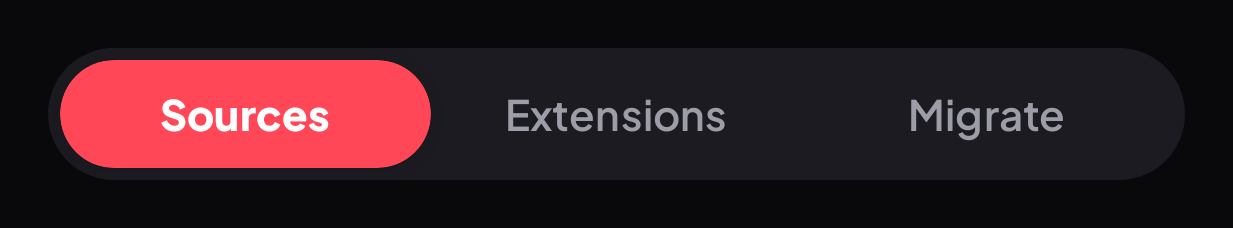
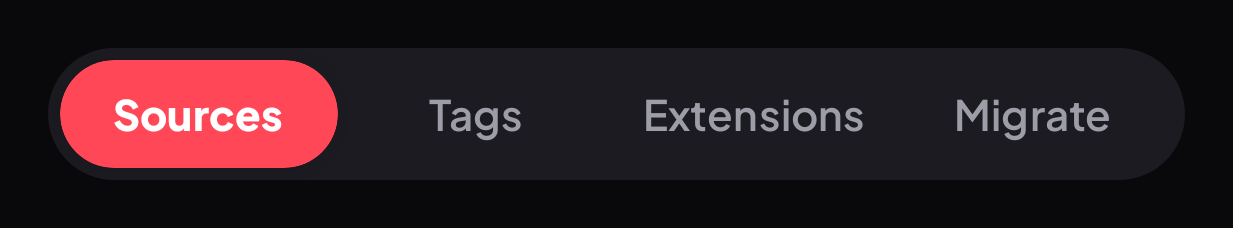
README gallery: universal search, Tags tab and reader chrome screenshots

Changed region(s): [[0.0925, 0.2456, 0.7088, 0.7368], [0.7397, 0.4298, 0.9246, 0.614]]

diff --git a/app/src/test/java/kurotoon/screenshots/KuroScreenshots.kt b/app/src/test/java/kurotoon/screenshots/KuroScreenshots.kt
@@ -782,9 +782,9 @@ class KuroScreenshots {
 
     @Test
     fun segmentedTabs() = shot("segmented_tabs") {
-        val pager = androidx.compose.foundation.pager.rememberPagerState { 3 }
+        val pager = androidx.compose.foundation.pager.rememberPagerState { 4 }
         kurotoon.ui.KuroSegmentedTabs(
-            titles = listOf("Sources", "Extensions", "Migrate"),
+            titles = listOf("Sources", "Tags", "Extensions", "Migrate"),
             pagerState = pager,
             onSelect = {},
             modifier = Modifier.padding(vertical = 10.dp),
@@ -827,6 +827,46 @@ class KuroScreenshots {
                 ),
             )
         }
+    }
+
+    @Test
+    fun unifiedSearch() = shot("unified_search", fullScreen = true) {
+        fun manga(id: Long, title: String, source: Long) = Manga.create().copy(
+            id = id,
+            title = title,
+            source = source,
+            url = "/$source/$id",
+            thumbnailUrl = "https://example.org/$id.jpg",
+        )
+        val asura: eu.kanade.tachiyomi.source.Source = tachiyomi.domain.source.model.StubSource(1L, "en", "Asura")
+        val flame: eu.kanade.tachiyomi.source.Source = tachiyomi.domain.source.model.StubSource(2L, "en", "Flame")
+        val reaper: eu.kanade.tachiyomi.source.Source = tachiyomi.domain.source.model.StubSource(3L, "en", "Reaper")
+        val slow: eu.kanade.tachiyomi.source.Source = tachiyomi.domain.source.model.StubSource(4L, "en", "Night Scans")
+        val ok: (List<Manga>) -> eu.kanade.tachiyomi.ui.browse.source.globalsearch.SearchItemResult =
+            eu.kanade.tachiyomi.ui.browse.source.globalsearch.SearchItemResult::Success
+        val loading: eu.kanade.tachiyomi.ui.browse.source.globalsearch.SearchItemResult =
+            eu.kanade.tachiyomi.ui.browse.source.globalsearch.SearchItemResult.Loading
+        val items = mapOf(
+            asura to ok(
+                listOf(
+                    manga(1, "Solo Leveling", 1),
+                    manga(2, "Solo Leveling: Ragnarok", 1),
+                    manga(3, "Solo Max-Level Newbie", 1),
+                ),
+            ),
+            flame to ok(listOf(manga(11, "Solo Leveling", 2), manga(12, "Solo Bug Player", 2))),
+            reaper to ok(listOf(manga(21, "Solo Leveling", 3), manga(22, "Solo Leveling: Ragnarok", 3))),
+            slow to loading,
+        )
+        kurotoon.ui.browse.UnifiedSearchResults(
+            items = items,
+            query = "solo leveling",
+            library = emptyList(),
+            contentPadding = androidx.compose.foundation.layout.PaddingValues(0.dp),
+            getManga = { androidx.compose.runtime.remember(it) { androidx.compose.runtime.mutableStateOf(it) } },
+            onClickItem = {},
+            onShowBySource = {},
+        )
     }
 
     @Test

diff --git a/app/src/main/java/mihon/feature/migration/list/MigrationListScreenContent.kt b/app/src/main/java/mihon/feature/migration/list/MigrationListScreenContent.kt
@@ -17,7 +17,6 @@ import androidx.compose.foundation.layout.padding
 import androidx.compose.foundation.layout.widthIn
 import androidx.compose.foundation.lazy.items
 import androidx.compose.foundation.shape.RoundedCornerShape
-import eu.kanade.presentation.components.DropdownMenu
 import androidx.compose.material3.DropdownMenuItem
 import androidx.compose.material3.Icon
 import androidx.compose.material3.IconButton
@@ -41,6 +40,7 @@ import androidx.compose.ui.unit.DpOffset
 import androidx.compose.ui.unit.dp
 import eu.kanade.presentation.components.AppBar
 import eu.kanade.presentation.components.AppBarActions
+import eu.kanade.presentation.components.DropdownMenu
 import eu.kanade.presentation.manga.components.MangaCover
 import eu.kanade.presentation.util.formatChapterNumber
 import eu.kanade.presentation.util.rememberResourceBitmapPainter

diff --git a/README.md b/README.md
@@ -111,7 +111,15 @@ one, tap Use.
 </tr>
 </table>
 
-<p align="center"><img src="docs/images/segmented_tabs.png" alt="Segmented tabs: Sources, Extensions, Migrate" width="70%"></p>
+<table>
+<tr>
+<td width="33%" valign="top"><img src="docs/images/unified_search.png" alt="Universal search showing one merged grid with x3 and x2 source badges"><br><sub><b>Universal search</b> · one merged grid, each series once</sub></td>
+<td width="33%" valign="top"><img src="docs/images/browse_tags.png" alt="Browse Tags tab with a search field and tag counts from every source"><br><sub><b>Tags</b> · every tag from every source</sub></td>
+<td width="33%" valign="top"><img src="docs/images/reader_chrome.png" alt="Reader page slider, page capsule, page loader and error card"><br><sub><b>Reader</b> · slider, page capsule, loader, error card</sub></td>
+</tr>
+</table>
+
+<p align="center"><img src="docs/images/segmented_tabs.png" alt="Segmented tabs: Sources, Tags, Extensions, Migrate" width="70%"></p>
 
 <p align="center"><img src="docs/images/bottom_bar.png" alt="Floating bottom dock with the Browse tab selected" width="70%"></p>
 
